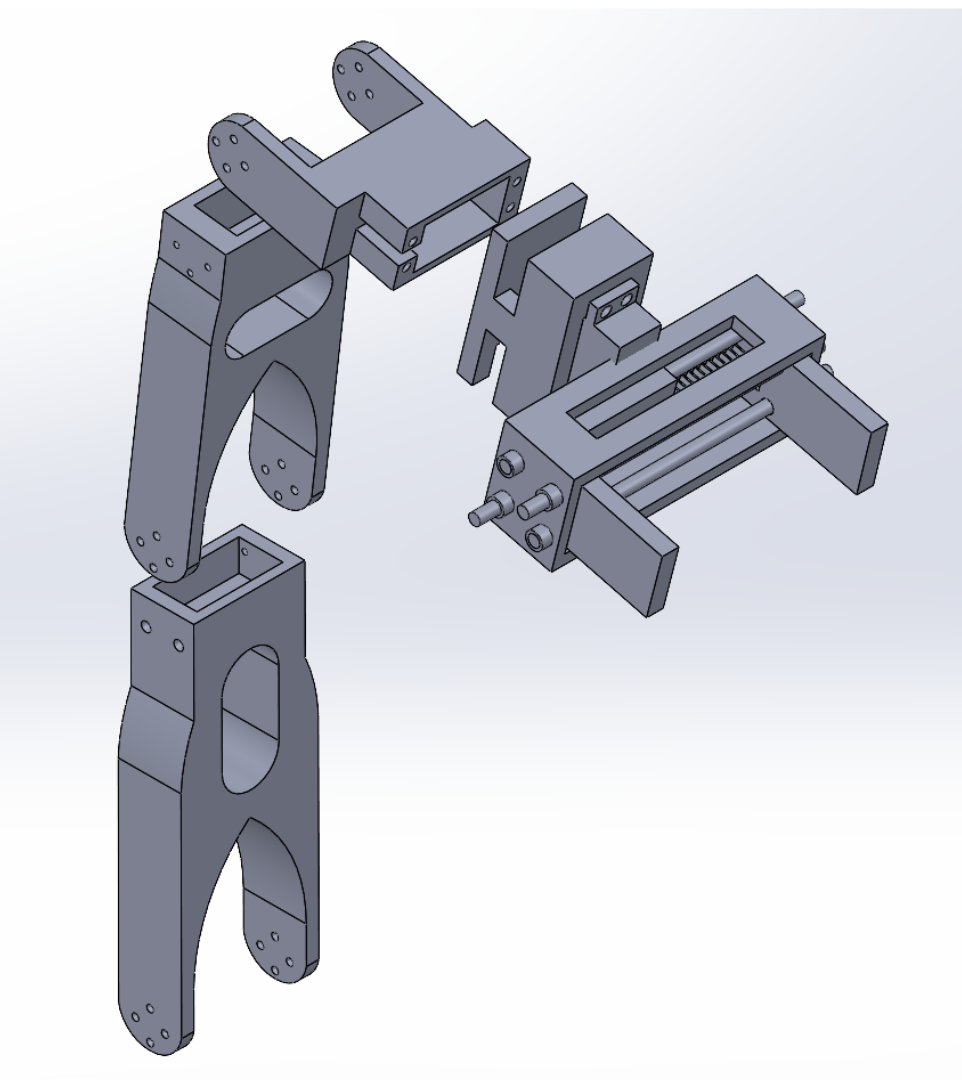
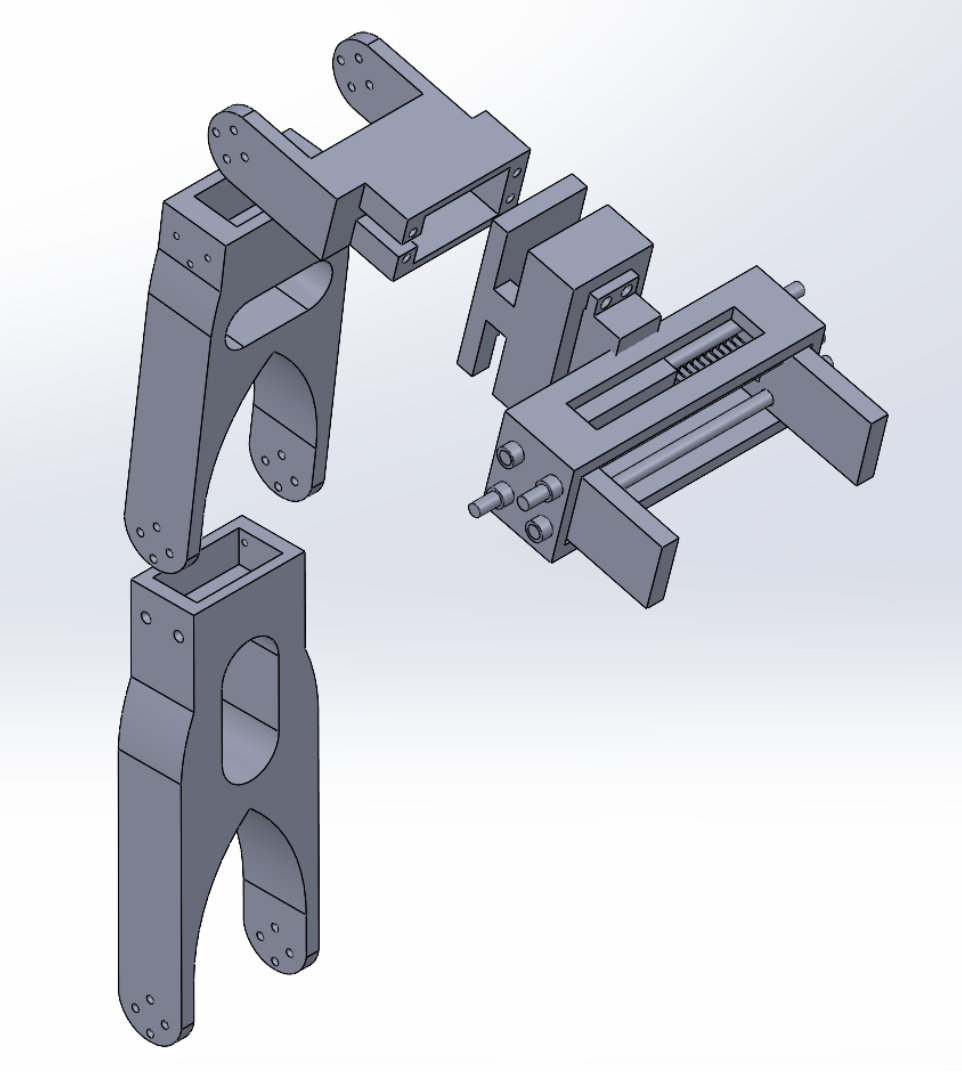
Remove stray caret from DH sketch and white strip from CAD render

diff --git a/projects/warehouse-robot.html b/projects/warehouse-robot.html
@@ -74,10 +74,10 @@
         <p>We modeled the robot using modified Denavit-Hartenberg parameters, assigning a coordinate frame to each of the six joints. Each link length was carefully chosen to work within our budget and keep the arm stable under load. After selecting 20 kg&middot;cm and 30 kg&middot;cm torque servos for our joints, we revised the dimensions so the robot can reliably handle packages up to 200 g and ended up with link lengths of 18cm, 15cm, 9cm, and an end effector of 12.5cm. After creating the frame sketch, I used SolidWorks to model the links and 3D printed those on a Bambu 3D printer.</p>
         <div class="figure-row">
           <figure>
-            <img src="../assets/img/projects/warehouse-robot/design-diagram-1.png" alt="DH parameter coordinate frames diagram" />
+            <img src="../assets/img/projects/warehouse-robot/design-diagram-1.png?v=2" alt="DH parameter coordinate frames diagram" />
             <figcaption>y1=13cm &middot; z2=3cm &middot; x3=18cm &middot; x4=15cm &middot; y5=9cm &middot; z6=12.5cm</figcaption>
           </figure>
-          <img src="../assets/img/projects/warehouse-robot/design-diagram-2.png" alt="Robot arm CAD model" />
+          <img src="../assets/img/projects/warehouse-robot/design-diagram-2.png?v=2" alt="Robot arm CAD model" />
         </div>
       </section>
 
